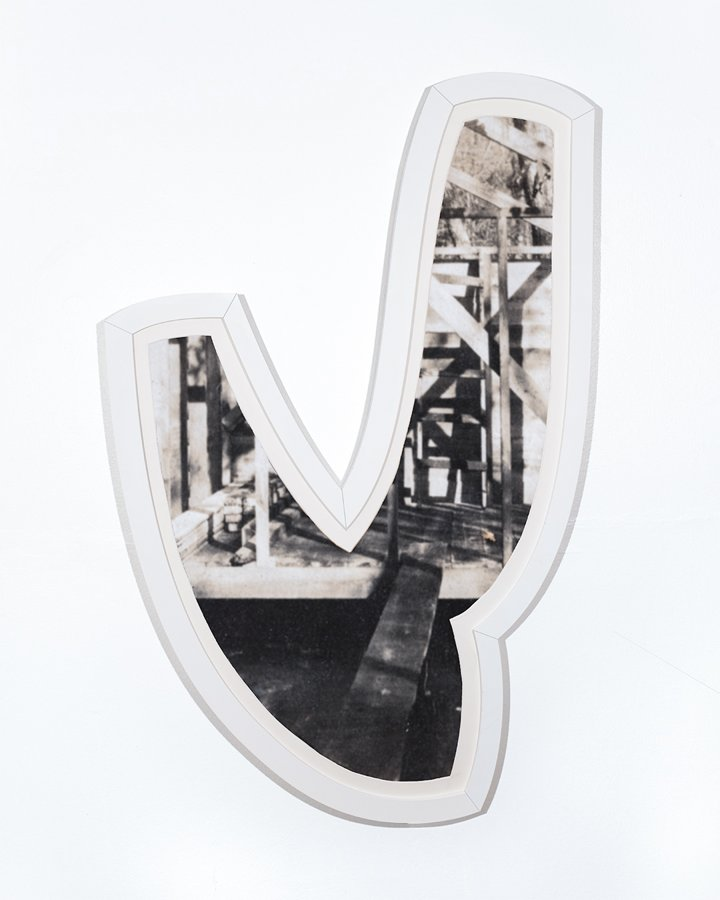
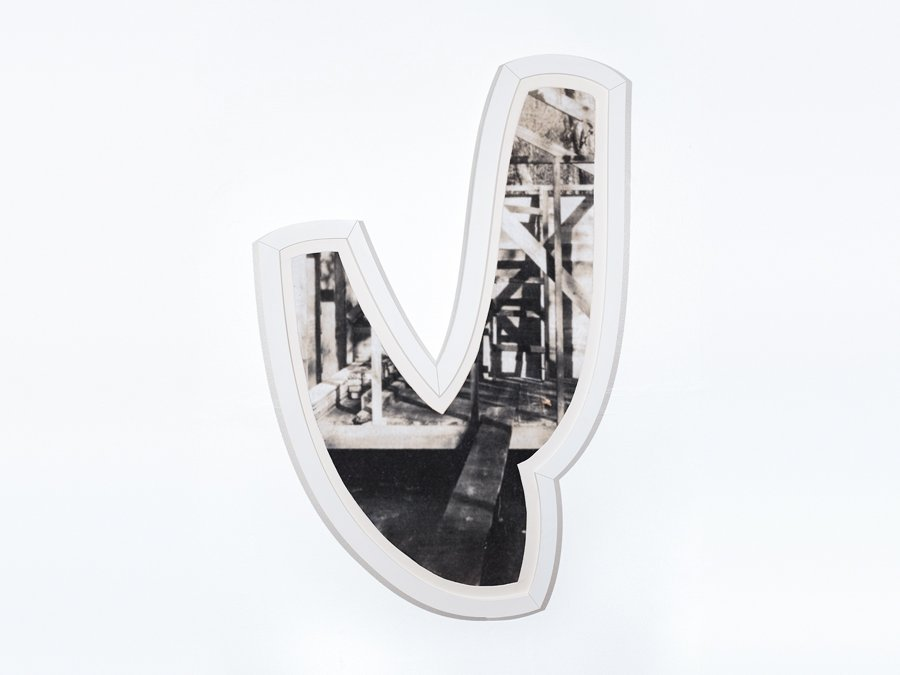
After: horizontal 2026 image
Claude-Session: https://claude.ai/code/session_01JVoaYGW79WXXRpj5iE4Fxm

Changed region(s): [[0.1528, 0.0933, 0.8556, 0.9333], [0.7944, 0.0933, 0.825, 0.1244], [0.275, 0.7778, 0.3056, 0.8089]]

diff --git a/projects/after.html b/projects/after.html
@@ -9,5 +9,5 @@
 <link rel="apple-touch-icon" href="../apple-touch-icon.png">
 </head><body>
 <header><a class="name" href="../index.html">Abraham Adams</a><nav><a href="../index.html" aria-current="page">projects</a><a href="../books.html">books</a><a href="../exhibitions.html">exhibitions</a><a href="../cv.html">cv</a><a href="../info.html">info</a></nav></header>
-<main><article class="work"><h1>“After,” 2021–</h1><p class="desc">“After” excerpts WWI-era amateur family-archive photographs inside frames shaped after marks in midcentury automatic drawings.</p><figure><img src="../img/after-01.jpg?v=c30c4563" width="2400" height="1800" alt="After, 2024" loading="eager"><figcaption>After, 2024. Ink-jet prints in artist’s frames, 89.5 × 56 cm and 63.5 × 81 cm. Shown in “After,” ASC Gallery, London.</figcaption></figure><figure><img src="../img/after-02.jpg?v=d98345d8" width="1181" height="1528" alt="Detail" loading="lazy"><figcaption>Detail.</figcaption></figure><figure><img src="../img/after-03.jpg?v=55306f29" width="2400" height="1800" alt="After, 2023" loading="lazy"><figcaption>After, 2023. Ink-jet print in artist’s frame, 110 × 210 × 6 cm. Shown in the Royal College of Art Graduate Degree Show, London.</figcaption></figure><figure><img src="../img/after-04.jpg?v=91d47f28" width="1856" height="2400" alt="Detail" loading="lazy"><figcaption>Detail.</figcaption></figure><figure><img src="../img/after-05.jpg?v=2a5b522c" width="2400" height="1800" alt="After, 2022" loading="lazy"><figcaption>After, 2022. C-print in artist’s frame, 110 × 82 cm.</figcaption></figure><figure><img src="../img/after-06.jpg?v=3152cfc7" width="1856" height="2400" alt="Detail" loading="lazy"><figcaption>Detail.</figcaption></figure><figure><img src="../img/after-07.jpg?v=0b4768ba" width="1080" height="1350" alt="After, 2026" loading="lazy"><figcaption>After, 2026. Ink-jet print in artist’s frame, 110 × 65 cm.</figcaption></figure></article></main>
+<main><article class="work"><h1>“After,” 2021–</h1><p class="desc">“After” excerpts WWI-era amateur family-archive photographs inside frames shaped after marks in midcentury automatic drawings.</p><figure><img src="../img/after-01.jpg?v=c30c4563" width="2400" height="1800" alt="After, 2024" loading="eager"><figcaption>After, 2024. Ink-jet prints in artist’s frames, 89.5 × 56 cm and 63.5 × 81 cm. Shown in “After,” ASC Gallery, London.</figcaption></figure><figure><img src="../img/after-02.jpg?v=d98345d8" width="1181" height="1528" alt="Detail" loading="lazy"><figcaption>Detail.</figcaption></figure><figure><img src="../img/after-03.jpg?v=55306f29" width="2400" height="1800" alt="After, 2023" loading="lazy"><figcaption>After, 2023. Ink-jet print in artist’s frame, 110 × 210 × 6 cm. Shown in the Royal College of Art Graduate Degree Show, London.</figcaption></figure><figure><img src="../img/after-04.jpg?v=91d47f28" width="1856" height="2400" alt="Detail" loading="lazy"><figcaption>Detail.</figcaption></figure><figure><img src="../img/after-05.jpg?v=2a5b522c" width="2400" height="1800" alt="After, 2022" loading="lazy"><figcaption>After, 2022. C-print in artist’s frame, 110 × 82 cm.</figcaption></figure><figure><img src="../img/after-06.jpg?v=3152cfc7" width="1856" height="2400" alt="Detail" loading="lazy"><figcaption>Detail.</figcaption></figure><figure><img src="../img/after-07.jpg?v=6fd282ea" width="1800" height="1350" alt="After, 2026" loading="lazy"><figcaption>After, 2026. Ink-jet print in artist’s frame, 110 × 65 cm.</figcaption></figure></article></main>
 </body></html>
